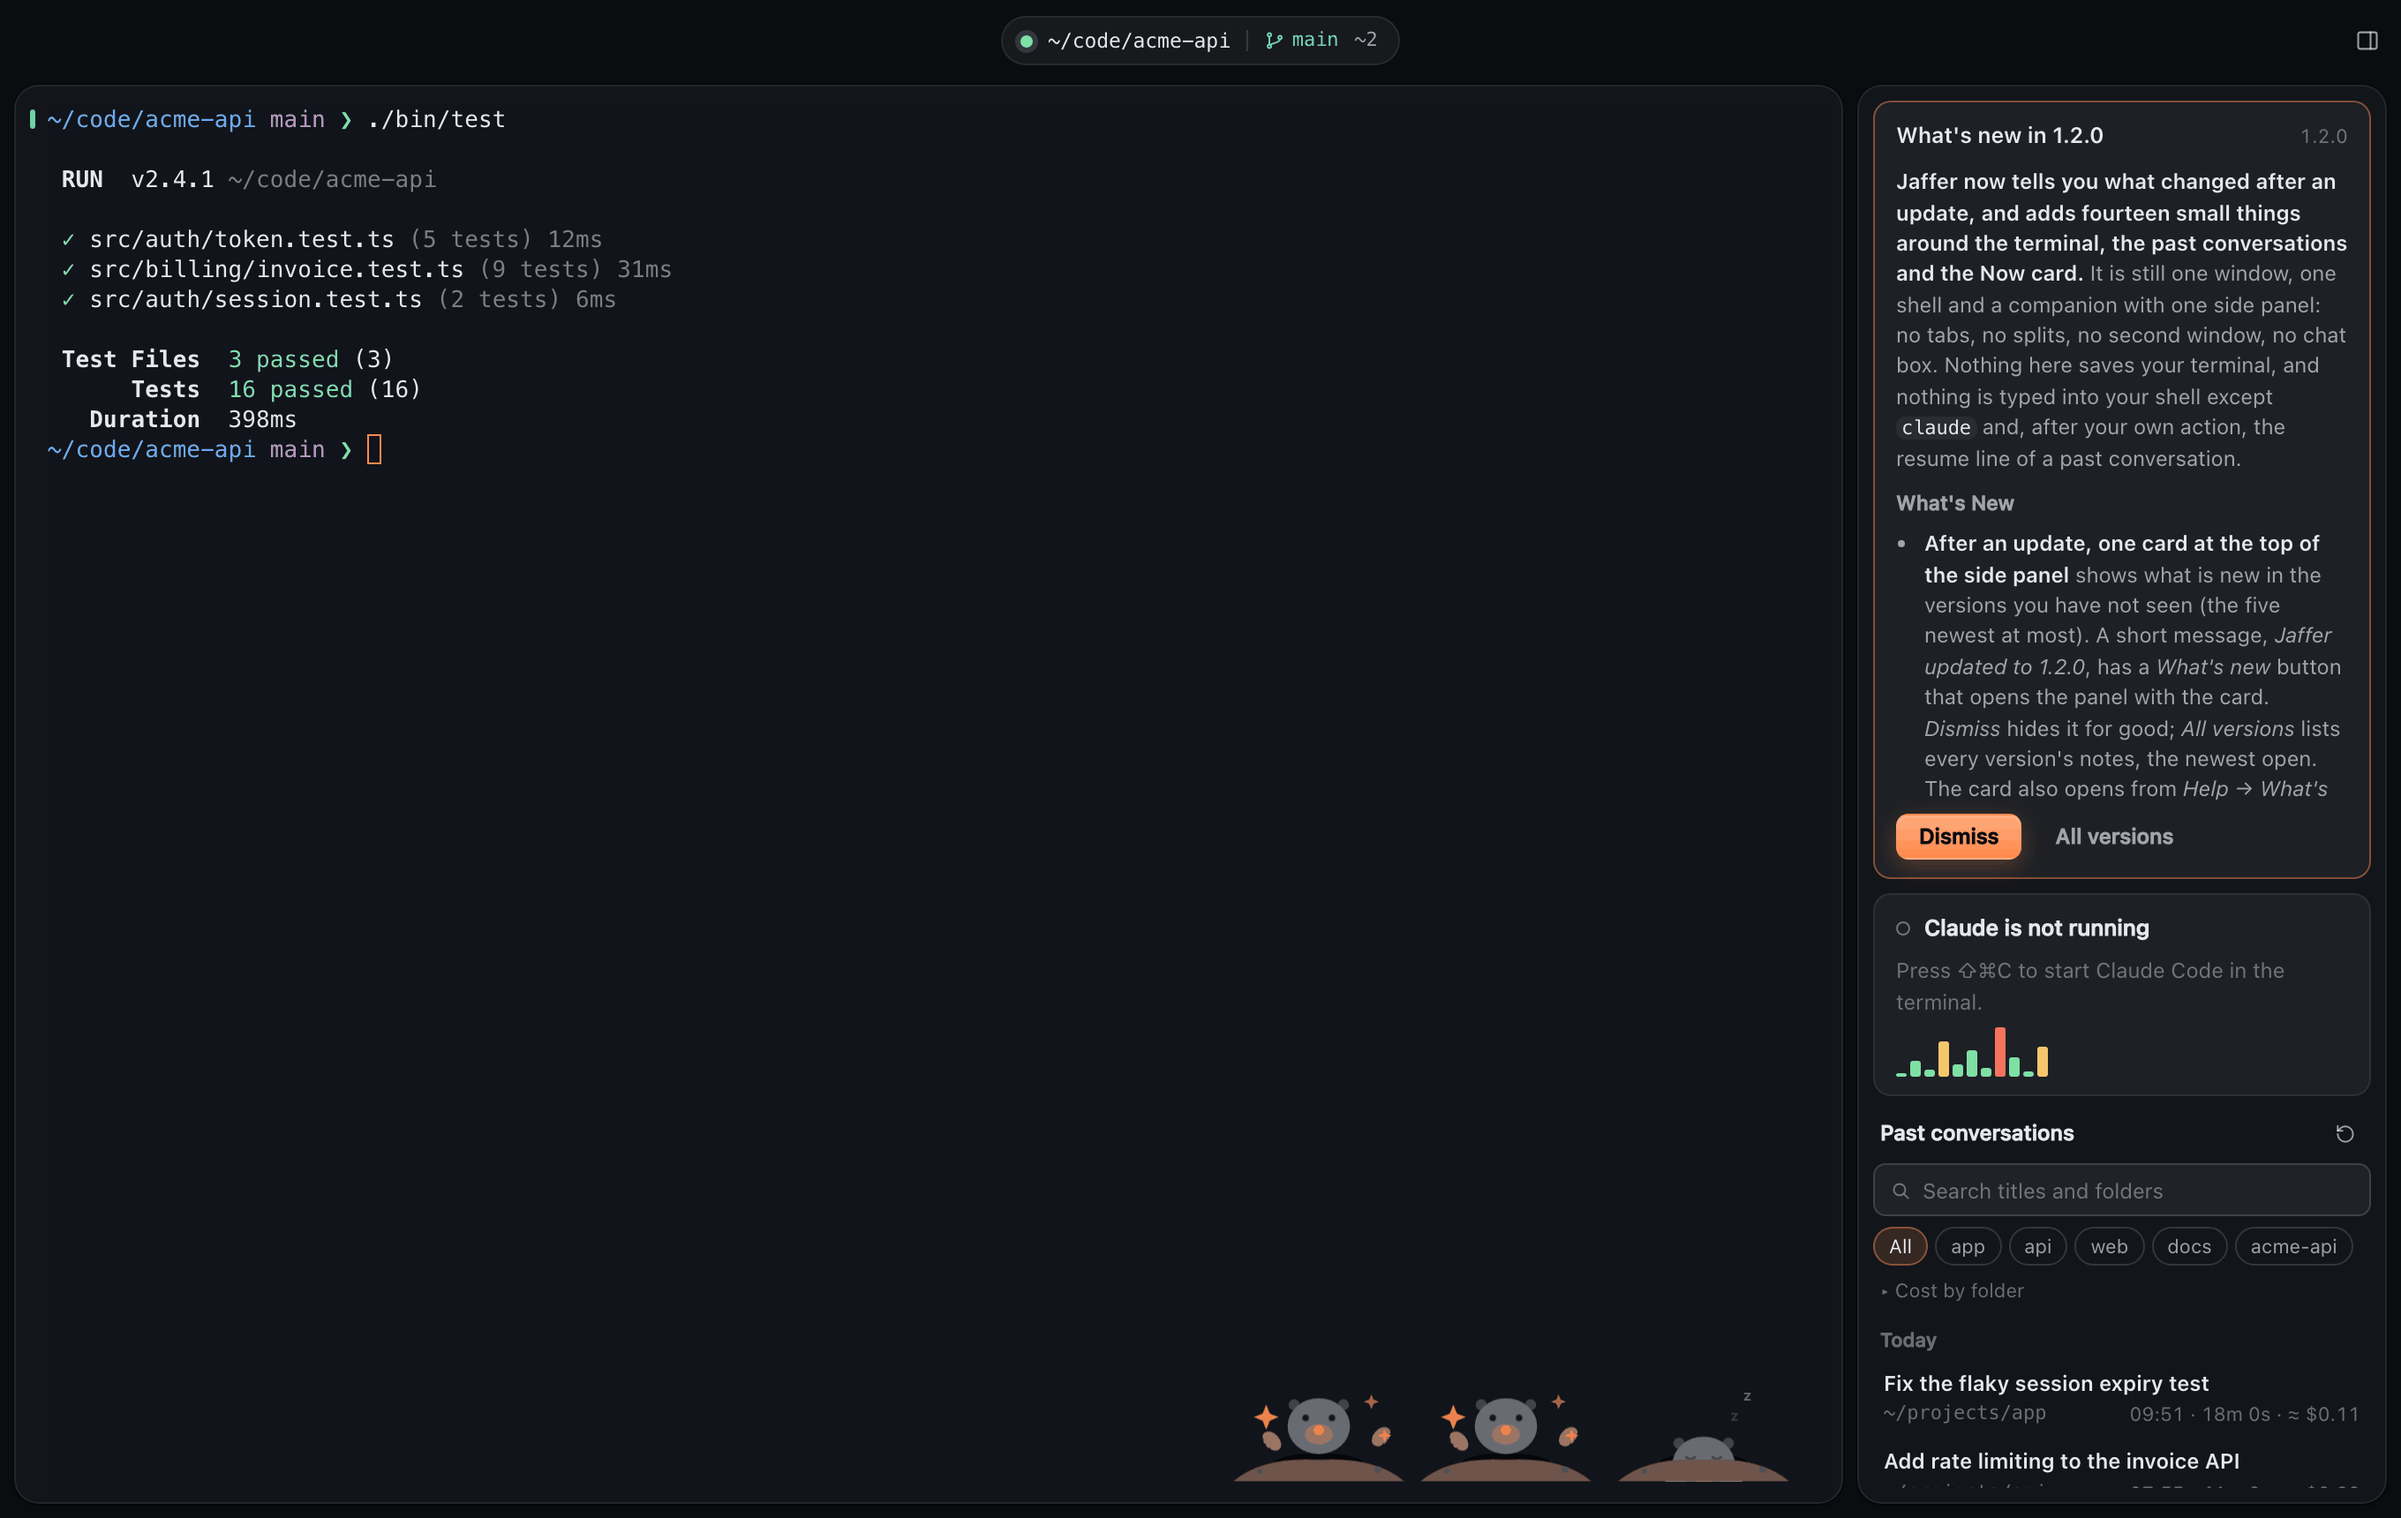
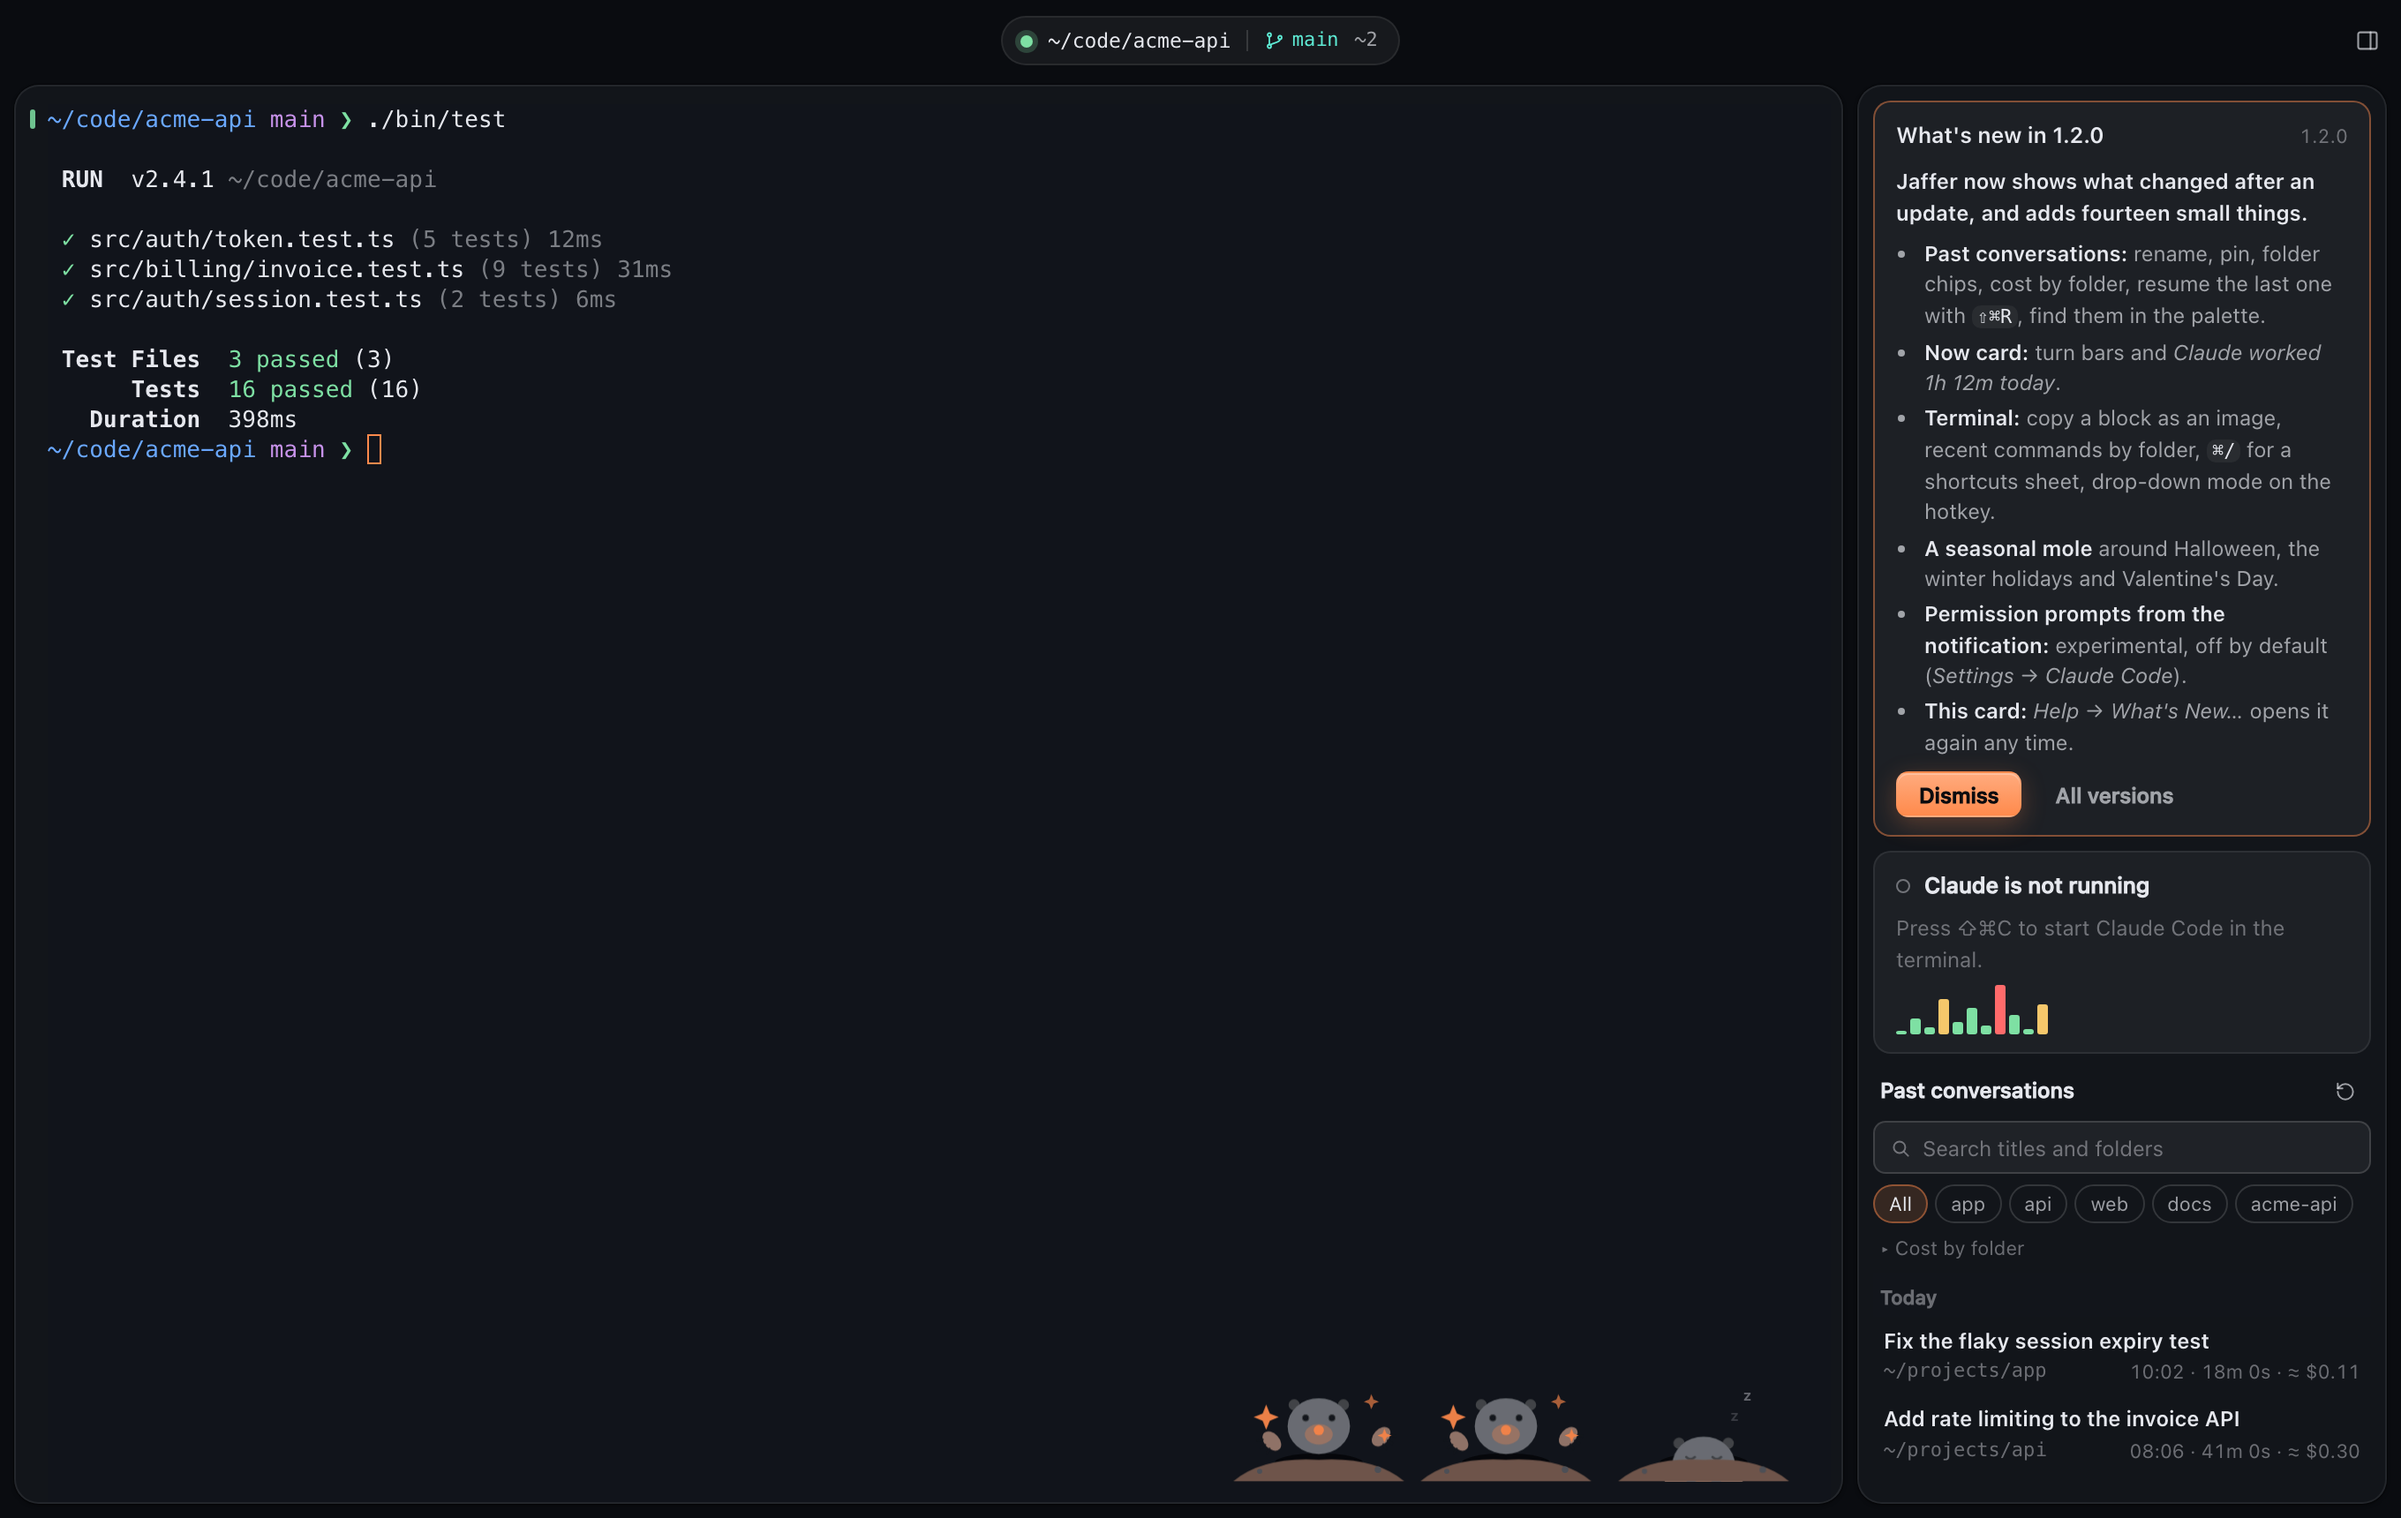
What's New card: notes end at a card-end line; short 1.2.0 card, refreshed screenshots

Changed region(s): [[0.7812, 0.1541, 0.9688, 0.986], [0.8438, 0.0924, 0.9688, 0.1233]]

diff --git a/test/release-notes.test.ts b/test/release-notes.test.ts
@@ -8,6 +8,16 @@ import { parseMd } from '../src/shared/mini-md';
 const root = path.join(__dirname, '..');
 
 describe('the bundled release notes (generated by scripts/gen-release-notes.mjs)', () => {
+  it('a note ends at its card-end line, loses its title and the standard last line', async () => {
+    const { clean } = (await import('../scripts/gen-release-notes.mjs')) as { clean: (raw: string) => string };
+    expect(clean('## T\n\nshort\n\n<!-- card-end -->\n\nlong details\n\nUpdating from 0.2.x or later asks first.')).toBe('short');
+    expect(clean('## T\n\nall of it\n\nUpdating from 0.2.x or later asks first.')).toBe('all of it');
+  });
+
+  it('the newest note is short enough for the card (under 1200 characters)', () => {
+    expect(RELEASE_NOTES[0]!.md.length).toBeLessThan(1200);
+  });
+
   it('the committed file is what the generator writes now', () => {
     expect(() => execFileSync(process.execPath, [path.join(root, 'scripts/gen-release-notes.mjs'), '--check'], { cwd: root, stdio: 'pipe' })).not.toThrow();
   });

diff --git a/docs/releases/v1.2.0.md b/docs/releases/v1.2.0.md
@@ -1,5 +1,15 @@
 ## What is new in 1.2.0
 
+**Jaffer now shows what changed after an update, and adds fourteen small things.**
+- **Past conversations:** rename, pin, folder chips, cost by folder, resume the last one with `⇧⌘R`, find them in the palette.
+- **Now card:** turn bars and *Claude worked 1h 12m today*.
+- **Terminal:** copy a block as an image, recent commands by folder, `⌘/` for a shortcuts sheet, drop-down mode on the hotkey.
+- **A seasonal mole** around Halloween, the winter holidays and Valentine's Day.
+- **Permission prompts from the notification:** experimental, off by default (*Settings → Claude Code*).
+- **This card:** *Help → What's New…* opens it again any time.
+
+<!-- card-end -->
+
 **Jaffer now tells you what changed after an update, and adds fourteen small things around the terminal, the past conversations and the Now card.** It is still one window, one shell and a companion with one side panel: no tabs, no splits, no second window, no chat box. Nothing here saves your terminal, and nothing is typed into your shell except `claude` and, after your own action, the resume line of a past conversation.
 
 ### What's New
